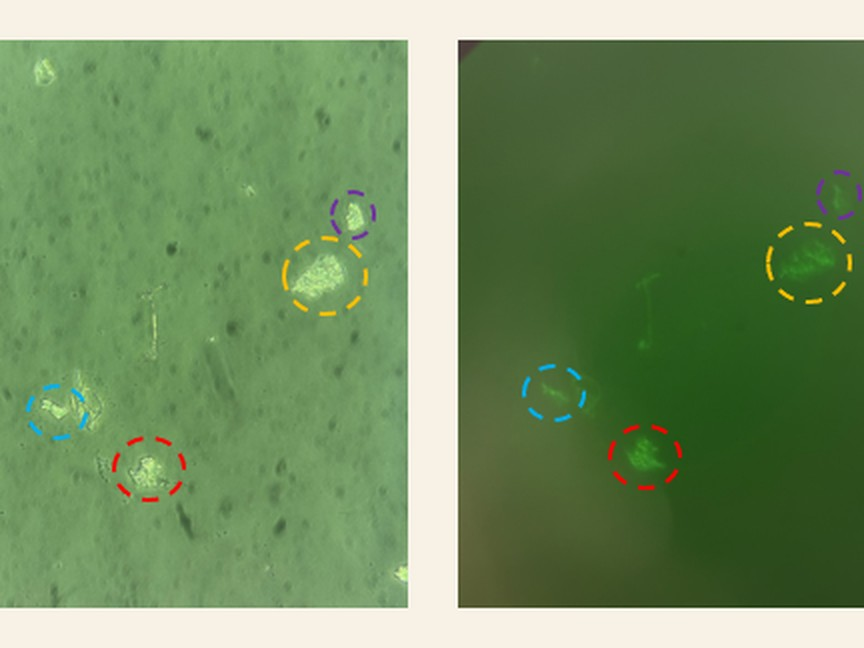
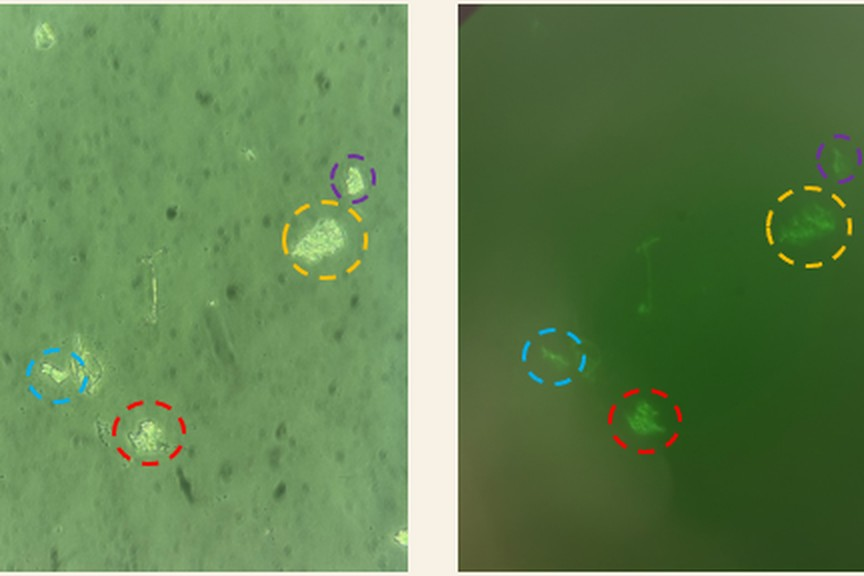
Thesis gallery: one row of small polaroids, lightbox with prev/next
Removes the colonies photo. Seven small cards in a single row (scrolls
sideways on narrow screens); clicking opens a large view with the full
caption, arrows, arrow-key navigation and a counter.

Claude-Session: https://claude.ai/code/session_019XjcnZCmFjdjA7N8MMH7qV

diff --git a/index.html b/index.html
@@ -744,45 +744,53 @@ html.js-draw .skill:hover .skill-art.is-drawn .blob { transform: scale(1.12) rot
 .bench-head { display: flex; flex-wrap: wrap; align-items: baseline; justify-content: space-between; gap: 0.4rem 1.5rem; margin-bottom: 2.2rem; }
 .bench-head h3 { font-family: var(--display); font-weight: 400; font-size: clamp(1.5rem, 2.6vw, 2rem); margin: 0.3rem 0 0; }
 .bench-head p { margin: 0; max-width: 46ch; color: var(--muted); font-size: 0.95rem; }
-.bench-grid { --cols: 3; --gap-x: clamp(1.2rem, 2.4vw, 2.2rem); list-style: none; margin: 0; padding: 0; display: flex; flex-wrap: wrap; justify-content: center; gap: clamp(1.8rem, 3vw, 2.8rem) var(--gap-x); }
-.bench-grid > .bench-photo { flex: 0 0 calc((100% - (var(--cols) - 1) * var(--gap-x)) / var(--cols)); }
+.bench-grid {
+  list-style: none; margin: 0; padding: 18px 6px 22px;
+  display: grid; grid-template-columns: repeat(7, minmax(0, 1fr)); gap: clamp(0.8rem, 1.6vw, 1.4rem);
+}
 .bench-photo {
-  position: relative; margin: 0; padding: 10px 10px 0;
+  position: relative; margin: 0; padding: 7px 7px 0;
   background: var(--paper-light);
-  box-shadow: 0 14px 26px -18px rgba(44, 36, 32, 0.6);
+  box-shadow: 0 12px 22px -16px rgba(44, 36, 32, 0.6);
   rotate: var(--r, 0deg);
   transition: rotate 0.3s ease, translate 0.3s ease, box-shadow 0.3s ease;
   cursor: zoom-in;
 }
-.bench-photo:hover, .bench-photo:focus-visible { rotate: 0deg; translate: 0 -4px; box-shadow: 0 20px 30px -18px rgba(44, 36, 32, 0.7); outline: none; }
-.bench-photo:focus-visible { box-shadow: 0 0 0 2px var(--maroon), 0 20px 30px -18px rgba(44, 36, 32, 0.7); }
-.bench-photo .tape { position: absolute; top: -11px; left: 50%; translate: -50% 0; width: 84px; height: 22px; background: rgba(236, 215, 162, 0.75); box-shadow: 0 1px 2px rgba(44, 36, 32, 0.2); rotate: var(--tr, -2deg); z-index: 1; }
-.bench-photo img, .bench-photo video { display: block; width: 100%; aspect-ratio: 4 / 3; object-fit: cover; background: var(--paper-deep); filter: sepia(0.12) saturate(0.9); transition: filter 0.3s ease; }
+.bench-photo:hover, .bench-photo:focus-visible { rotate: 0deg; translate: 0 -6px; box-shadow: 0 18px 28px -16px rgba(44, 36, 32, 0.7); outline: none; z-index: 2; }
+.bench-photo:focus-visible { box-shadow: 0 0 0 2px var(--maroon), 0 18px 28px -16px rgba(44, 36, 32, 0.7); }
+.bench-photo .tape { position: absolute; top: -9px; left: 50%; translate: -50% 0; width: 52px; height: 16px; background: rgba(236, 215, 162, 0.75); box-shadow: 0 1px 2px rgba(44, 36, 32, 0.2); rotate: var(--tr, -2deg); z-index: 1; }
+.bench-photo img, .bench-photo video { display: block; width: 100%; aspect-ratio: 1 / 1; object-fit: cover; background: var(--paper-deep); filter: sepia(0.12) saturate(0.9); transition: filter 0.3s ease; }
+.bench-photo.bench-photo--fit img { object-fit: contain; background: var(--paper-light); }
 .bench-photo:hover img, .bench-photo:hover video { filter: none; }
-.bench-photo figcaption { padding: 0.65rem 0.2rem 0.9rem; }
-.bench-photo .bench-script { display: block; font-family: var(--script); font-size: 1.45rem; line-height: 1.1; color: var(--maroon); }
-.bench-photo .bench-fig { display: block; margin-top: 0.3rem; font-family: var(--mono); font-size: 0.66rem; letter-spacing: 0.08em; text-transform: uppercase; color: var(--muted); line-height: 1.5; }
-.bench-photo:nth-child(1) { --r: -1.4deg; }
-.bench-photo:nth-child(2) { --r: 1deg; --tr: 3deg; }
-.bench-photo:nth-child(3) { --r: -0.6deg; }
-.bench-photo:nth-child(4) { --r: 1.3deg; --tr: 2deg; }
-.bench-photo:nth-child(5) { --r: -1deg; --tr: -4deg; }
-.bench-photo:nth-child(6) { --r: 0.7deg; }
-.bench-photo:nth-child(7) { --r: 1.1deg; --tr: -3deg; }
-.bench-photo:nth-child(8) { --r: -1.2deg; --tr: 2deg; }
-.bench-photo:nth-child(9) { --r: 0.5deg; }
-@media (max-width: 900px) { .bench-grid { --cols: 2; } }
-@media (max-width: 520px) { .bench-grid { --cols: 1; --gap-x: 0px; row-gap: 2.2rem; } .bench-photo { margin-inline: 6px; } }
+.bench-photo figcaption { padding: 0.45rem 0.1rem 0.6rem; text-align: center; }
+.bench-photo .bench-script { display: block; font-family: var(--script); font-size: 1.12rem; line-height: 1.1; color: var(--maroon); }
+.bench-photo .bench-stage { display: block; margin-top: 0.2rem; font-family: var(--mono); font-size: 0.56rem; letter-spacing: 0.14em; text-transform: uppercase; color: var(--muted); }
+.bench-photo .bench-fig { display: none; }
+.bench-photo:nth-child(odd) { --r: -1.6deg; --tr: -3deg; }
+.bench-photo:nth-child(even) { --r: 1.4deg; --tr: 3deg; }
+.bench-photo:nth-child(3n) { --r: -0.5deg; }
+/* Smaller screens: keep one row and let it scroll sideways */
+@media (max-width: 1000px) {
+  .bench-grid { display: flex; overflow-x: auto; scroll-snap-type: x mandatory; scroll-padding: 0 6px; -webkit-overflow-scrolling: touch; scrollbar-width: thin; }
+  .bench-grid > .bench-photo { flex: 0 0 clamp(150px, 38vw, 200px); scroll-snap-align: start; }
+}
 
 .photo-overlay { position: fixed; inset: 0; z-index: 60; background: rgba(44, 36, 32, 0.6); display: grid; place-items: center; padding: 16px; opacity: 0; visibility: hidden; transition: opacity 0.25s ease, visibility 0.25s; }
 .photo-overlay.open { opacity: 1; visibility: visible; }
+.photo-overlay img[hidden], .photo-overlay video[hidden] { display: none; }
 .photo-overlay figure { position: relative; margin: 0; padding: 14px 14px 0; background: var(--paper-light); border-radius: 4px; max-width: min(960px, 100%); max-height: 92vh; display: flex; flex-direction: column; box-shadow: 0 24px 50px -20px rgba(0,0,0,0.5); }
 .photo-overlay img, .photo-overlay video { display: block; max-width: 100%; max-height: calc(92vh - 110px); object-fit: contain; margin: 0 auto; }
 .photo-overlay figcaption { padding: 0.7rem 0.2rem 1rem; }
 .photo-overlay .bench-script { display: block; font-family: var(--script); font-size: 1.6rem; color: var(--maroon); line-height: 1.1; }
 .photo-overlay .bench-fig { display: block; margin-top: 0.3rem; font-family: var(--mono); font-size: 0.7rem; letter-spacing: 0.08em; text-transform: uppercase; color: var(--muted); }
-.photo-overlay .icon-btn { position: absolute; top: -14px; right: -14px; background: var(--paper-light); z-index: 2; }
-@media (max-width: 520px) { .photo-overlay .icon-btn { top: 6px; right: 6px; } }
+.photo-overlay #photo-overlay-close { position: absolute; top: -14px; right: -14px; background: var(--paper-light); z-index: 2; }
+.photo-overlay .bench-stage { display: block; margin-bottom: 0.2rem; font-family: var(--mono); font-size: 0.62rem; letter-spacing: 0.16em; text-transform: uppercase; color: var(--olive); }
+.photo-nav { position: absolute; top: 50%; translate: 0 -50%; background: var(--paper-light); z-index: 2; }
+.photo-nav.prev { left: -22px; }
+.photo-nav.next { right: -22px; }
+.photo-nav:disabled { opacity: 0.35; cursor: default; }
+.photo-count { position: absolute; bottom: 1rem; right: 1rem; font-family: var(--mono); font-size: 0.68rem; letter-spacing: 0.1em; color: var(--muted); }
+@media (max-width: 720px) { .photo-overlay #photo-overlay-close { top: 6px; right: 6px; } .photo-nav.prev { left: 6px; } .photo-nav.next { right: 6px; } }
 
 /* ---------------- Line-art diagrams ---------------- */
 .diagram-scroll { overflow-x: auto; }
@@ -1654,48 +1662,43 @@ html.js-reveal .reveal.is-revealed { opacity: 1; transform: none; }
             <span class="eyebrow">From the bench</span>
             <h3>The real chip, in photos</h3>
           </div>
-          <p>From cleanroom to cell culture: fabrication, flow tests and results from the thesis. Tap a photo to see it larger.</p>
+          <p>From wafer to working chip to glowing cells. Click any photo for a closer look.</p>
         </div>
         <ul class="bench-grid" id="bench-grid">
           <li class="bench-photo" tabindex="0" role="button" aria-label="Enlarge photo: Layer by layer">
             <span class="tape" aria-hidden="true"></span>
             <img src="images/thesis/metal-wafer.jpg" alt="Silicon wafer with metal traces and square bump pads" loading="lazy" onerror="handleImgError(this, 'PHOTO', '#e3d6c2')">
-            <figcaption><span class="bench-script">Layer by layer</span><span class="bench-fig">Fabrication · The wafer after the metal layer: Cr/Pt traces and bump pads</span></figcaption>
+            <figcaption><span class="bench-script">Layer by layer</span><span class="bench-stage">Fabrication</span><span class="bench-fig">The wafer after the metal layer: Cr/Pt traces and bump pads</span></figcaption>
           </li>
           <li class="bench-photo" tabindex="0" role="button" aria-label="Enlarge photo: Soft lithography">
             <span class="tape" aria-hidden="true"></span>
             <video poster="images/thesis/pdms-peel-poster.jpg" autoplay muted loop playsinline preload="metadata" aria-label="Gloved hands peeling a cast PDMS flow channel off its master wafer"><source src="images/thesis/pdms-peel.webm" type="video/webm"><source src="images/thesis/pdms-peel.mp4" type="video/mp4"></video>
-            <figcaption><span class="bench-script">Soft lithography</span><span class="bench-fig">Fabrication · Peeling the cast PDMS flow channel off its master wafer</span></figcaption>
+            <figcaption><span class="bench-script">Soft lithography</span><span class="bench-stage">Fabrication</span><span class="bench-fig">Peeling the cast PDMS flow channel off its master wafer</span></figcaption>
           </li>
           <li class="bench-photo" tabindex="0" role="button" aria-label="Enlarge photo: The finished chip">
             <span class="tape" aria-hidden="true"></span>
             <img src="images/thesis/finished-chip.jpg" alt="Finished microfluidic chip with serpentine channel, electrodes and inlet ports" loading="lazy" onerror="handleImgError(this, 'PHOTO', '#e3d6c2')">
-            <figcaption><span class="bench-script">The finished chip</span><span class="bench-fig">Fabrication · PDMS channel bonded over the electrodes, inlets punched</span></figcaption>
+            <figcaption><span class="bench-script">The finished chip</span><span class="bench-stage">Fabrication</span><span class="bench-fig">PDMS channel bonded over the electrodes, inlets punched</span></figcaption>
           </li>
           <li class="bench-photo" tabindex="0" role="button" aria-label="Enlarge photo: Wired up">
             <span class="tape" aria-hidden="true"></span>
             <img src="images/thesis/wired-jig.jpg" alt="Microfluidic chip in a pink 3D-printed jig with oscilloscope probes clipped on" loading="lazy" onerror="handleImgError(this, 'PHOTO', '#e3d6c2')">
-            <figcaption><span class="bench-script">Wired up</span><span class="bench-fig">Electrical test · The chip clamped in its jig with probes attached</span></figcaption>
+            <figcaption><span class="bench-script">Wired up</span><span class="bench-stage">Testing</span><span class="bench-fig">The chip clamped in its jig with probes attached</span></figcaption>
           </li>
           <li class="bench-photo" tabindex="0" role="button" aria-label="Enlarge photo: Three streams, one lane">
             <span class="tape" aria-hidden="true"></span>
             <img src="images/thesis/flow-intersection.jpg" alt="Microscope view of orange and yellow streams meeting at a channel junction" loading="lazy" onerror="handleImgError(this, 'PHOTO', '#e3d6c2')">
-            <figcaption><span class="bench-script">Three streams, one lane</span><span class="bench-fig">Flow test · Sheath flow squeezing the centre stream at the three-way intersection</span></figcaption>
+            <figcaption><span class="bench-script">Three streams, one lane</span><span class="bench-stage">Testing</span><span class="bench-fig">Sheath flow squeezing the centre stream at the three-way intersection</span></figcaption>
           </li>
           <li class="bench-photo" tabindex="0" role="button" aria-label="Enlarge photo: The loop does the mixing">
             <span class="tape" aria-hidden="true"></span>
             <img src="images/thesis/mixing-loop.jpg" alt="Microscope view of one loop of the mixing channel, with orange, yellow and green dyed streams blending as they turn" loading="lazy" onerror="handleImgError(this, 'PHOTO', '#e3d6c2')">
-            <figcaption><span class="bench-script">The loop does the mixing</span><span class="bench-fig">Flow test · Each tight turn sets up swirling vortices that fold the dyed streams into one another</span></figcaption>
+            <figcaption><span class="bench-script">The loop does the mixing</span><span class="bench-stage">Testing</span><span class="bench-fig">Each tight turn sets up swirling vortices that fold the dyed streams into one another</span></figcaption>
           </li>
-          <li class="bench-photo" tabindex="0" role="button" aria-label="Enlarge photo: It glows!">
+          <li class="bench-photo bench-photo--fit" tabindex="0" role="button" aria-label="Enlarge photo: It glows!">
             <span class="tape" aria-hidden="true"></span>
             <img src="images/thesis/gfp-compare.jpg" alt="The same cells side by side under normal light and under 470 nm light, with four cells circled that glow green" loading="lazy" onerror="handleImgError(this, 'PHOTO', '#e3d6c2')">
-            <figcaption><span class="bench-script">It glows!</span><span class="bench-fig">Cell test · The same cells under normal light (left) and 470 nm light (right): the circled ones glow with GFP</span></figcaption>
-          </li>
-          <li class="bench-photo" tabindex="0" role="button" aria-label="Enlarge photo: Still growing">
-            <span class="tape" aria-hidden="true"></span>
-            <img src="images/thesis/colonies.jpg" alt="Microscope view of small cell colonies on a green-tinted background" loading="lazy" onerror="handleImgError(this, 'PHOTO', '#e3d6c2')">
-            <figcaption><span class="bench-script">Still growing</span><span class="bench-fig">Cell test · OVCAR8 colonies ten days after going through the chip</span></figcaption>
+            <figcaption><span class="bench-script">It glows!</span><span class="bench-stage">Result</span><span class="bench-fig">The same cells under normal light (left) and 470 nm light (right): the circled ones glow with GFP</span></figcaption>
           </li>
         </ul>
       </div>
@@ -1746,9 +1749,12 @@ html.js-reveal .reveal.is-revealed { opacity: 1; transform: none; }
 <div class="photo-overlay" id="photo-overlay" aria-hidden="true">
   <figure role="dialog" aria-modal="true" aria-label="Photo, full size">
     <button class="icon-btn" type="button" id="photo-overlay-close" aria-label="Close">×</button>
+    <button class="icon-btn photo-nav prev" type="button" id="photo-prev" aria-label="Previous photo">←</button>
+    <button class="icon-btn photo-nav next" type="button" id="photo-next" aria-label="Next photo">→</button>
     <img id="photo-overlay-img" alt="">
     <video id="photo-overlay-video" muted loop playsinline hidden></video>
     <figcaption id="photo-overlay-cap"></figcaption>
+    <span class="photo-count" id="photo-count"></span>
   </figure>
 </div>
 
@@ -2026,7 +2032,26 @@ html.js-reveal .reveal.is-revealed { opacity: 1; transform: none; }
   const photoOverlay = document.getElementById("photo-overlay");
   const benchGrid = document.getElementById("bench-grid");
   let photoReturn = null;
+  const benchItems = () => benchGrid ? [...benchGrid.querySelectorAll(".bench-photo")] : [];
+  function showPhoto(li) {
+    const items = benchItems(), i = items.indexOf(li);
+    document.getElementById("photo-prev").disabled = i <= 0;
+    document.getElementById("photo-next").disabled = i >= items.length - 1;
+    document.getElementById("photo-count").textContent = (i + 1) + " / " + items.length;
+    fillPhoto(li);
+  }
+  function stepPhoto(d) {
+    const items = benchItems(), i = items.indexOf(photoReturn) + d;
+    if (i >= 0 && i < items.length) { document.getElementById("photo-overlay-video").pause(); showPhoto(items[i]); }
+  }
   function openPhoto(li) {
+    showPhoto(li);
+    photoOverlay.classList.add("open");
+    photoOverlay.setAttribute("aria-hidden", "false");
+    document.body.style.overflow = "hidden";
+    document.getElementById("photo-overlay-close").focus();
+  }
+  function fillPhoto(li) {
     const img = li.querySelector("img");
     const vid = li.querySelector("video");
     const bigImg = document.getElementById("photo-overlay-img");
@@ -2043,10 +2068,6 @@ html.js-reveal .reveal.is-revealed { opacity: 1; transform: none; }
       bigImg.alt = img.alt;
     }
     document.getElementById("photo-overlay-cap").innerHTML = li.querySelector("figcaption").innerHTML;
-    photoOverlay.classList.add("open");
-    photoOverlay.setAttribute("aria-hidden", "false");
-    document.body.style.overflow = "hidden";
-    document.getElementById("photo-overlay-close").focus();
   }
   function closePhoto() {
     document.getElementById("photo-overlay-video").pause();
@@ -2070,7 +2091,14 @@ html.js-reveal .reveal.is-revealed { opacity: 1; transform: none; }
   }
   document.getElementById("photo-overlay-close").addEventListener("click", closePhoto);
   photoOverlay.addEventListener("click", e => { if (e.target === photoOverlay) closePhoto(); });
-  document.addEventListener("keydown", e => { if (e.key === "Escape" && photoOverlay.classList.contains("open")) closePhoto(); });
+  document.getElementById("photo-prev").addEventListener("click", () => stepPhoto(-1));
+  document.getElementById("photo-next").addEventListener("click", () => stepPhoto(1));
+  document.addEventListener("keydown", e => {
+    if (!photoOverlay.classList.contains("open")) return;
+    if (e.key === "Escape") closePhoto();
+    if (e.key === "ArrowRight") stepPhoto(1);
+    if (e.key === "ArrowLeft") stepPhoto(-1);
+  });
 
   // ---------------- Folder nudge stops once a folder is used ----------------
   const stack = document.getElementById("folder-stack");
@@ -2671,6 +2699,8 @@ html.ed-panel-open .ed-bar .ed-hint { display: none; }
     root.querySelectorAll("#photo-overlay-video").forEach(n => { n.removeAttribute("src"); n.removeAttribute("aria-label"); n.setAttribute("hidden", ""); });
     root.querySelectorAll("#photo-overlay-img").forEach(n => n.removeAttribute("hidden"));
     root.querySelectorAll("#photo-overlay-cap").forEach(n => { n.innerHTML = ""; });
+    root.querySelectorAll("#photo-count").forEach(n => { n.textContent = ""; });
+    root.querySelectorAll("#photo-prev, #photo-next").forEach(n => n.removeAttribute("disabled"));
     const arch = root.querySelector(".modal-arch");
     if (arch) arch.innerHTML = '<svg id="modal-icon"><use href="#ico-sprout"/></svg>';
     root.querySelectorAll("[aria-current]").forEach(n => n.removeAttribute("aria-current"));
